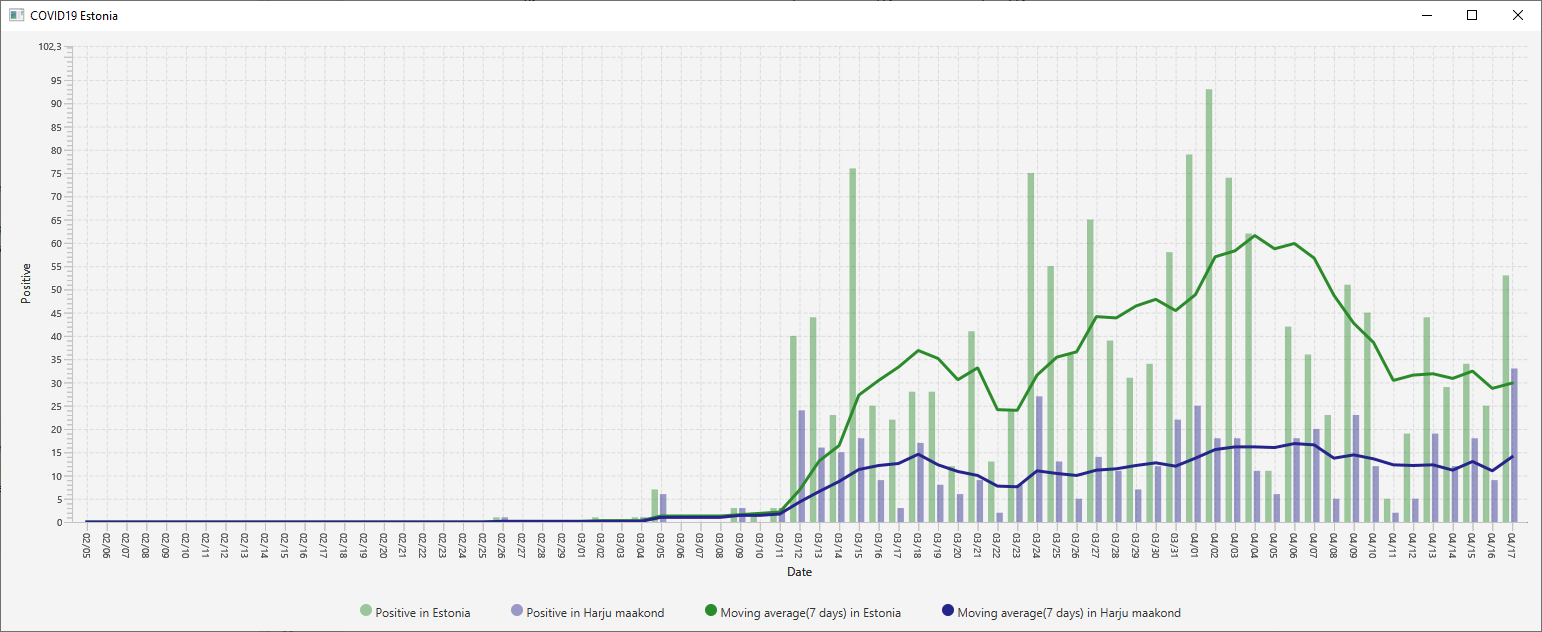
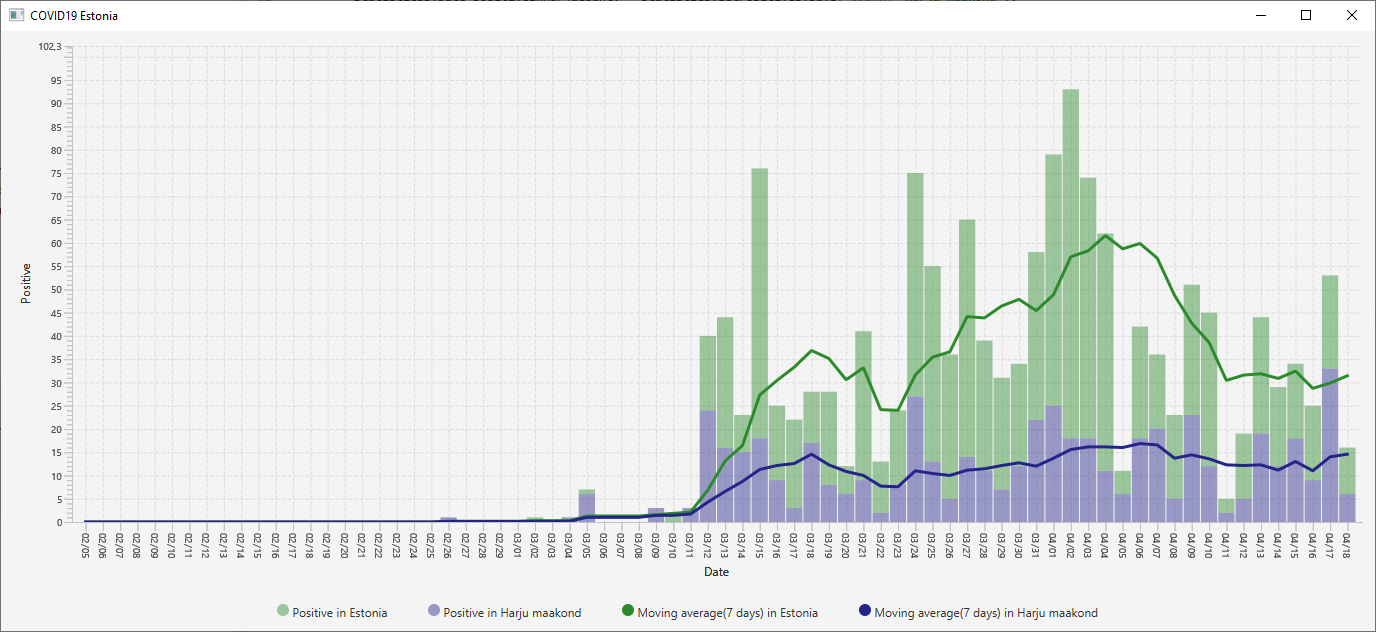
Stacked bar chart

diff --git a/src/main/resources/style.css b/src/main/resources/style.css
@@ -18,12 +18,12 @@
 }
 
 
-.default-color0.chart-bar {
+.default-color1.chart-bar {
   -fx-bar-fill: -fx-fill-estonia;
   -fx-opacity: -fx-opacity-positive;
 }
 
-.default-color1.chart-bar {
+.default-color0.chart-bar {
   -fx-bar-fill: -fx-fill-harju;
   -fx-opacity: -fx-opacity-positive;
 }

diff --git a/src/main/java/Main.java b/src/main/java/Main.java
@@ -8,10 +8,10 @@ import javafx.collections.ObservableList;
 import javafx.geometry.Orientation;
 import javafx.scene.Node;
 import javafx.scene.Scene;
-import javafx.scene.chart.BarChart;
 import javafx.scene.chart.CategoryAxis;
 import javafx.scene.chart.LineChart;
 import javafx.scene.chart.NumberAxis;
+import javafx.scene.chart.StackedBarChart;
 import javafx.scene.chart.XYChart;
 import javafx.scene.control.Label;
 import javafx.scene.layout.BorderPane;
@@ -49,11 +49,12 @@ public class Main extends Application {
     final Statistics statistics = new Statistics(covid19TestResult);
     StatisticsByDate positiveInEstonia = statistics.getPositiveByDays();
     StatisticsByDate positiveInHarjuCounty = statistics.getPositiveByDays("Harju maakond");
+    StatisticsByDate positiveExcludeHarjuCounty = statistics.getPositiveByDaysExclude("Harju maakond");
     stage.setTitle("COVID19 Estonia");
 
     double max = positiveInEstonia.getMaxValue().doubleValue() * 1.10;
-    final BarChart<String, Number> barChart = new BarChart<>(createXAxis(), createYAxis(max));
-    barChart.setBarGap(2);
+    final StackedBarChart<String, Number> barChart = new StackedBarChart<>(createXAxis(), createYAxis(max));
+    barChart.setCategoryGap(2);
     barChart.setCategoryGap(1);
     barChart.setLegendVisible(false);
     barChart.setAnimated(false);
@@ -63,8 +64,8 @@ public class Main extends Application {
     lineChart.setLegendVisible(false);
     lineChart.setAnimated(false);
 
-    barChart.getData().add(createSeries("Positive in Estonia", positiveInEstonia));
     barChart.getData().add(createSeries("Positive in Harju maakond", positiveInHarjuCounty));
+    barChart.getData().add(createSeries("Positive in Estonia", positiveExcludeHarjuCounty));
 
     lineChart.getData().add(createSeries("Average in Estonia", MovingAverage.getMovingAverage(positiveInEstonia, 7)));
     lineChart.getData().add(createSeries("Average in Harju maakond", MovingAverage.getMovingAverage(positiveInHarjuCounty, 7)));

diff --git a/src/main/java/ee/smkv/covid19/estonia/Statistics.java b/src/main/java/ee/smkv/covid19/estonia/Statistics.java
@@ -32,6 +32,15 @@ public class Statistics {
     return new StatisticsByDate(fillMissingDates(map));
   }
 
+  public StatisticsByDate getPositiveByDaysExclude(String county) {
+    TreeMap<LocalDate, Long> map = source.stream()
+                                         .filter(TestResult::isPositive)
+                                         .filter(testResult -> !county.equalsIgnoreCase(testResult.getCounty()))
+                                         .sorted(comparing(TestResult::getStatisticsDate))
+                                         .collect(groupingBy(TestResult::getStatisticsDate, TreeMap::new, counting()));
+    return new StatisticsByDate(fillMissingDates(map));
+  }
+
   private TreeMap<LocalDate, Long> fillMissingDates(TreeMap<LocalDate, Long> map) {
     LocalDate startDate = getStartDate();
     LocalDate endDate = getEndDate();
